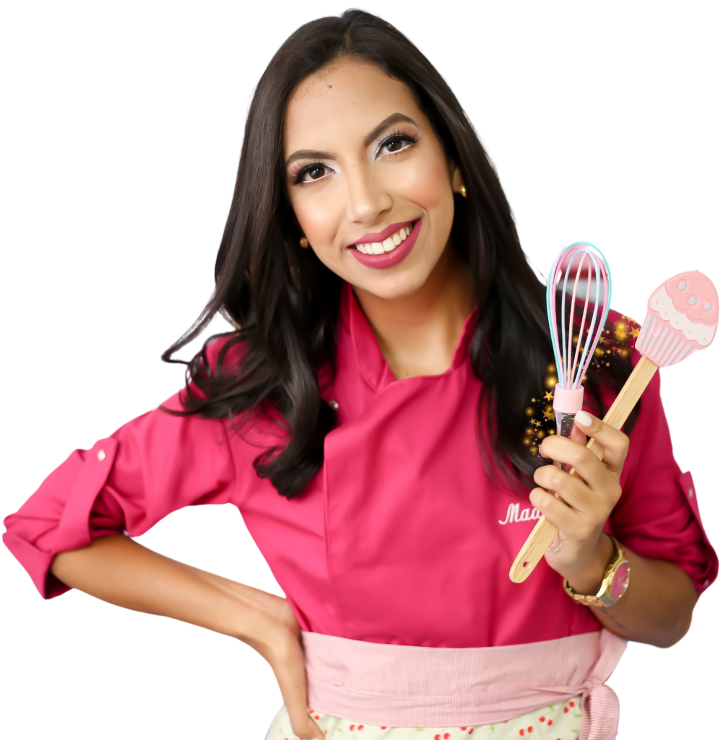
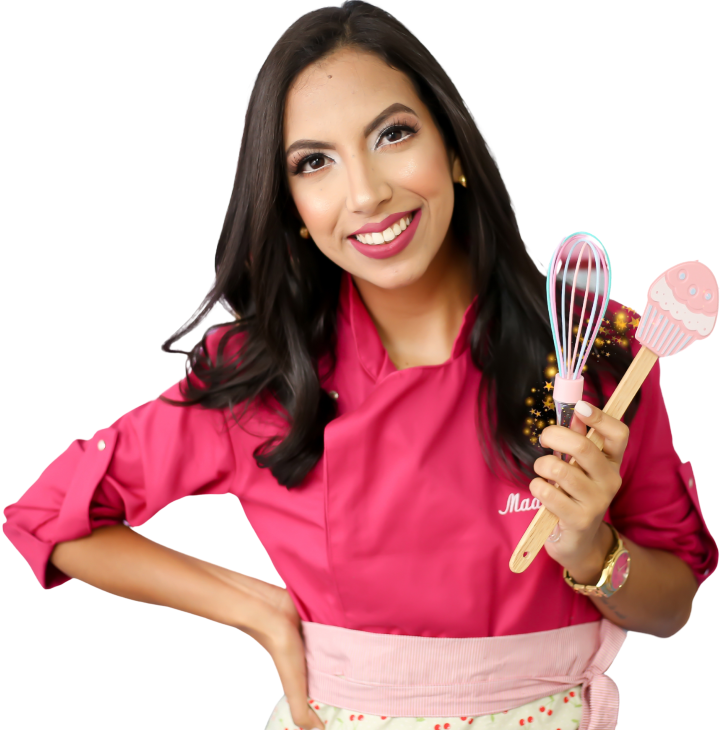
Alterações na estilização index e inserção de dados no modelo index

diff --git a/index.html b/index.html
@@ -4,26 +4,98 @@
   <meta charset="UTF-8">
   <meta name="viewport" content="width=device-width, initial-scale=1.0">
   <link rel="stylesheet" href="styles.css">
+  
+  <!---Fonte Waterfall & Roboto Condensed-->
+  <link rel="preconnect" href="https://fonts.googleapis.com">
+  <link rel="preconnect" href="https://fonts.gstatic.com" crossorigin>
+  <link href="https://fonts.googleapis.com/css2?family=Waterfall&family=Roboto+Condensed:ital,wght@0,100..900;1,100..900&display=swap" rel="stylesheet">
+  <!--
+  -->
   <title>Maah Doces - Bolos personalizados em pasta americana</title>
 </head>
 <body>
   <header>
     <img class="top" src="assets/topbg.png" alt="Plano de fundo do topo da pagina, como um toldo comercial rosa e cinza">
+
+    <nav>
+      <ul>
+        <li>Home</li>
+        <li>Produtos</li>
+        <li>Contato</li>
+        <li>Corporativo</li>
+        <li>Conheça a Maah</li>
+      </ul>
+    </nav>
   </header>
 
   <main>
     <section>
       <img class="landing-maah" src="assets/maah-landing-pg-rd.png" alt="Foto da Maah Cake Designer na Maah Doces, vestida com sua dolmã roda e segurando um fouet">
 
-      <img class="nuvem-landing-pg" src="assets/nuvem-landing-pg.png" alt="Margens no formato de nuvens">
+      <img class="nuvem-landing-pg" src="assets/nuvem-landing-pg-rev.png" alt="Margens no formato de nuvens">
 
       <img class="landing-logo" src="assets/logo-maah-doces.png" alt="Logotipo da empresa escrito Maah Doces">
+
+      <p class="txt-contato1"> Nossos produtos são artesanais e feitos sob encomenda. </p>
+      <p class="txt-contato2">Entre em contato para verificar a disponibilidade. </p>
     </section>
 
+    
+      
+    <section>
+      <div class="banner1">
+        <p class="txtbanner1">Envios para toda cidade de São Paulo e Interior.</p>
+      </div>
+    </section>
+
+    <section>
+      <div class="destaques">
+        <p class="txtdestaque">Nossos Produtos</p>
+        <hr>
+
+        <div class="lista-produtos">
+
+        <img src="assets/backgroundens.png" width="230" height="230"></img>
+        <img src="assets/backgroundens.png" width="230" height="230"></img>
+        <img src="assets/backgroundens.png" width="230" height="230"></img>
+        <img src="assets/backgroundens.png" width="230" height="230"></img>
+        <img src="assets/backgroundens.png" width="230" height="230"></img>
+        
+               
+        </div>
+        
+       
+
+      </div>
+    </section>
+      
   </main>
 
   <footer>
 
+    <div class="social-links">
+      
+        <p>Redes Sociais</p>
+        <div class="box1">
+        <img src="assets/backgroundens.png" width="150px" height="150px">
+        <img src="assets/backgroundens.png" width="150px" height="150px">
+        <img src="assets/backgroundens.png" width="150px" height="150px">
+          </div>
+    </div>
+      
+      
+    <div class="contact">
+        
+          <p>Contato</p>
+          <img src="assets/backgroundens.png" width="150px" height="150px">
+          <img src="assets/backgroundens.png" width="150px" height="150px">
+          <img src="assets/backgroundens.png" width="150px" height="150px">
+    </div>
+
+      </ul>
+    </nav>
+  
+    
   </footer>
 
 </body>

diff --git a/styles.css b/styles.css
@@ -26,30 +26,115 @@ body {
   /*background-position-x: center;*/
 }
 
+
+nav {
+  /*background-color: #ffffff;*/
+  width: 100%;  
+  position: absolute;
+  padding-top: 7rem;
+}
+
+ul {
+  display: flex;
+  justify-content:flex-end;
+  list-style: none;
+  gap: 30px;
+  margin-right: 3%;
+}
+
+li {
+  font-family: "Roboto Condensed";
+  font-weight: 300;
+  text-transform: uppercase;
+  
+}
+
+
 .landing-maah {
-  position: fixed;
+  position: absolute;
   width: auto;
-  height: 70%;
-  top: 5rem;
-  left: 50rem;
+  height: 50%;
+  top: 7rem;
+  right: 60%;
   z-index: 2;
 }
 
 .nuvem-landing-pg {
-  position: fixed;
+  position: absolute;
   width: 100%;
-  top: 15rem;
+  top: 7rem;
   z-index: 4;
 }
 
 .landing-logo {
-  position: fixed;
+  position: absolute;
   width: auto;
   height: 25%;
-  top: 5rem;
+  top: 3rem;
   left: 2rem;
   z-index: 4;
 }
+
+.txt-contato1 {
+  position: absolute;
+  top: 15rem;
+  left: 43rem;
+  display: flex;
+  font-family: "Waterfall", cursive;
+  font-size: 45px;
+}
+
+.txt-contato2 {
+  position: absolute;
+  top: 17rem;
+  left: 48rem;
+  display: flex;
+  font-family: "Waterfall", cursive;
+  font-size: 45px;
+}
+
+.banner1 {
+  background-color: #ffffff;
+  position: absolute;
+  margin-top: 34rem;
+  padding: 20px;  
+  width: 100%;
+  
+}
+
+.txtbanner1 {
+  padding: 10px;
+  text-align: center;
+  font-family: "Roboto Condensed";
+  font-size: 30px;
+  font-weight: 200;
+  text-transform: uppercase;
+}
+
+.destaques {
+  background-color: #ffffff;
+  position: absolute;
+  margin-top: 39rem;
+  width: 100%;
+  border-radius: 0px 0px 20px 20px;
+}
+
+.txtdestaque {
+  text-transform: uppercase;
+  font-weight: 400;
+  font-size: 20px;
+  text-align: center;
+  font-family: "Roboto Condensed";
+  margin-bottom: 20px;
+}
+
+.lista-produtos{
+ display: flex;
+ padding-top: 30px;
+ padding-bottom: 30px;
+ justify-content: center;
+}
+
 
 h1 {
   position: absolute;
@@ -57,4 +142,40 @@ h1 {
   left: 5rem;
   border: 1px solid red;
   display: flex;
+}
+
+footer{
+  display: flex;  
+  position: relative;
+  top: 60rem;
+ 
+}
+
+.social-links {
+  border: 5px solid red;
+  margin-top: 30px;
+  display: flex;
+  flex-direction: column;
+  font-family: "Roboto Condensed";
+  text-transform: uppercase;
+  text-align: center;
+  
+  
+}
+
+.contact {
+  border: 5px solid red;
+  margin-top: 30px;
+  display: flex;
+  font-family: "Roboto Condensed";
+  text-transform: uppercase;
+  justify-content: space-between;
+ 
+  
+  
+}
+
+.box1{
+  display: flex;
+  border: 5px solid red;
 }
